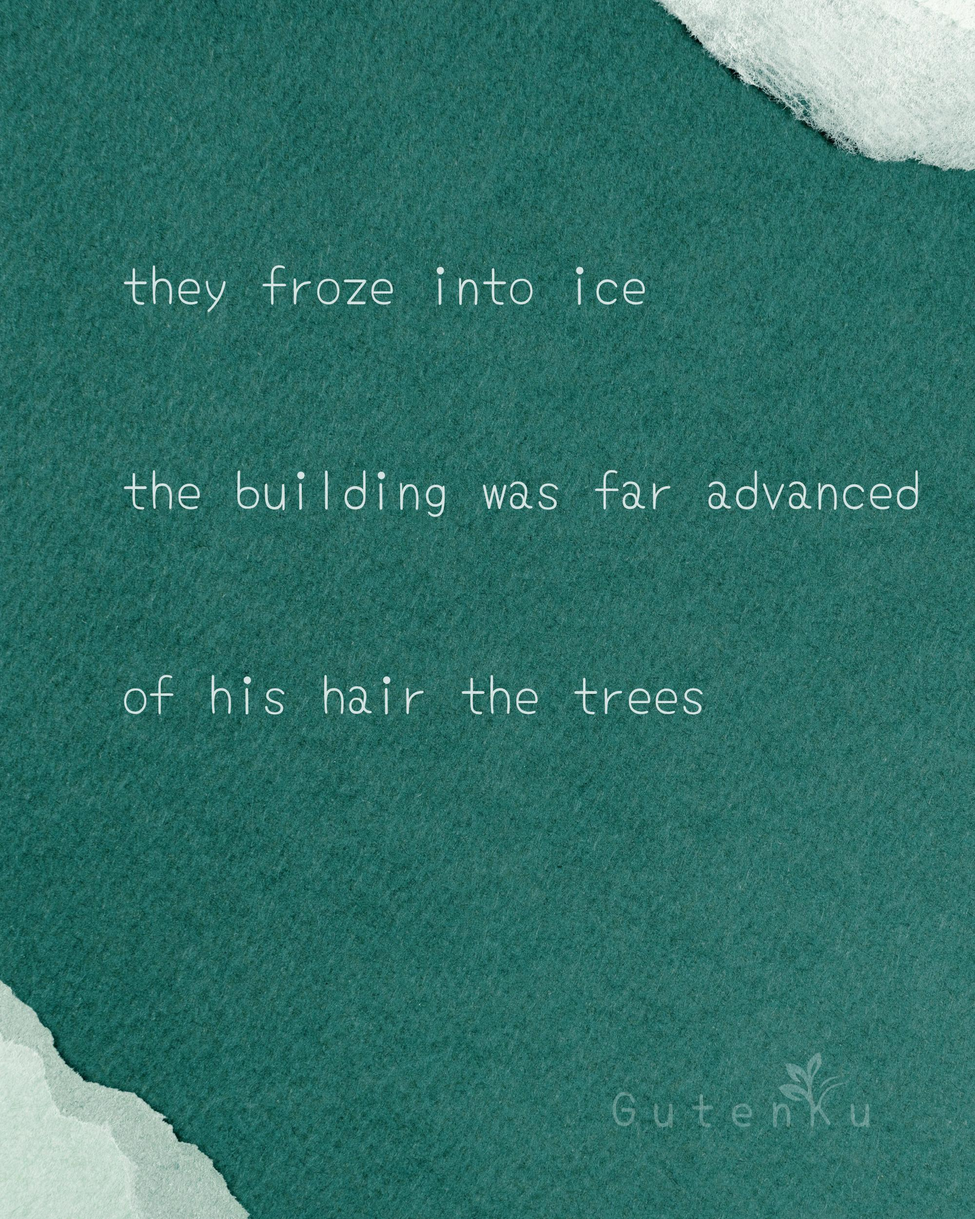
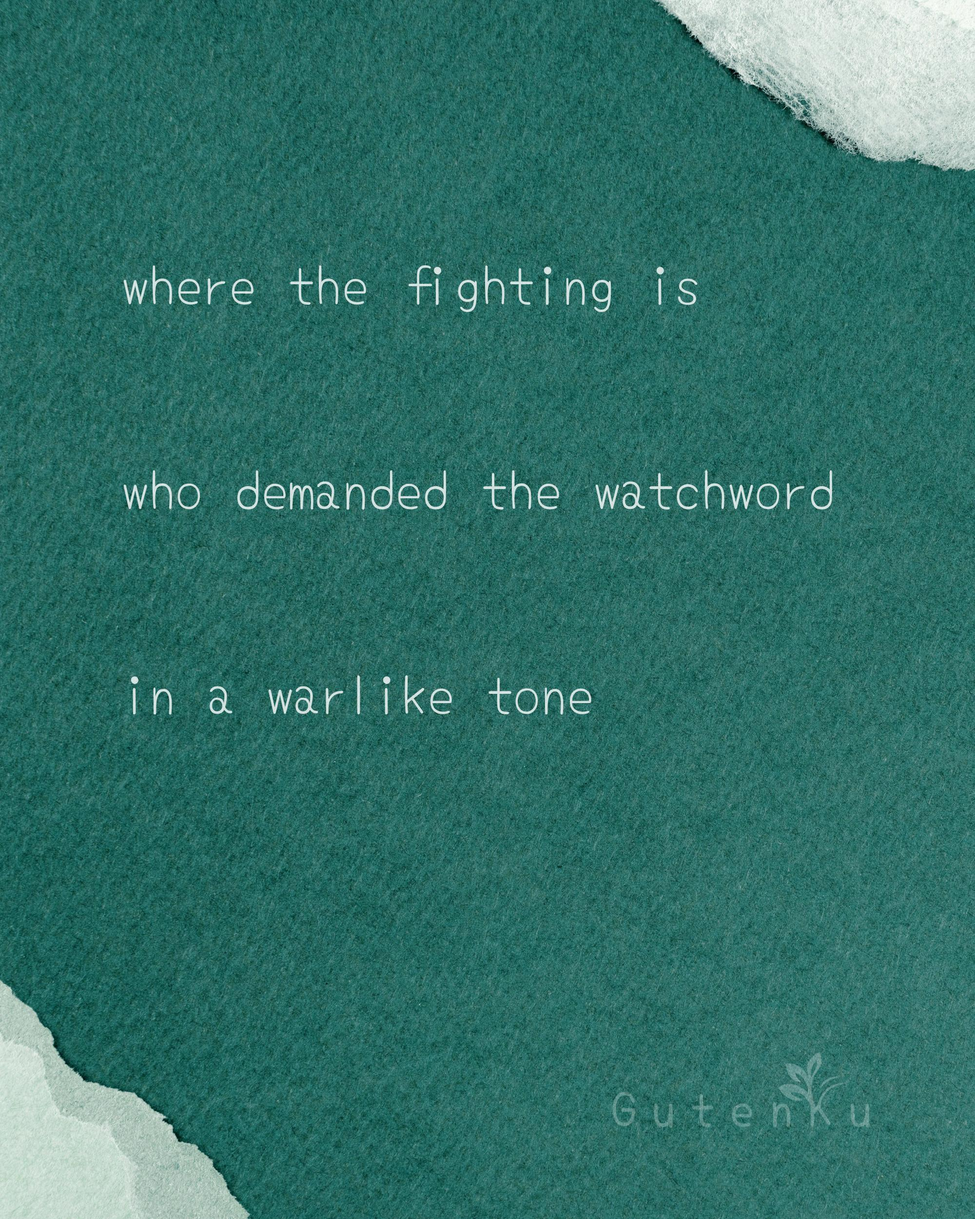
docs(readme): updated daily haiku card

diff --git a/README.md b/README.md
@@ -25,13 +25,13 @@
 <table>
 <tr>
 <td width="300" valign="top">
-<img src="/assets/img/daily_haiku_card.jpg?t=1784887254" width="280" alt="Daily Haiku Card">
+<img src="/assets/img/daily_haiku_card.jpg?t=1784973638" width="280" alt="Daily Haiku Card">
 </td>
 <td valign="top">
 
-> _"This haiku creates a vivid, dreamlike winter scene where nature and human life seem to merge. The phrase "they froze into ice" suggests a sudden, complete transformation, as if everything has been overtaken by deep cold. "The building was far advanced" gives the impression of something old, weathered, or perhaps buried in time, while "of his hair the trees" is strikingly unusual and poetic, making the trees seem like an extension of a person’s body. This blending of images gives the haiku a surreal, contemplative mood, where the boundary between the man-made, the natural, and the human becomes blurred. Overall, the poem feels cold, still, and mysterious, like a frozen landscape suspended in silence."_
+> _"This haiku captures the tense atmosphere of conflict through sharp, questioning language. The phrase "where the fighting is" suggests a search for the battlefield or the center of danger, while "who demanded the watchword" hints at authority, secrecy, and discipline. The final line, "in a warlike tone," intensifies the mood, showing aggression and urgency. As a whole, the poem evokes the sound and pressure of war, where even speech carries force and suspicion."_
 
-— **BotenKu** 📅 _Jul 24, 2026_
+— **BotenKu** 📅 _Jul 25, 2026_
 
 </td>
 </tr>
